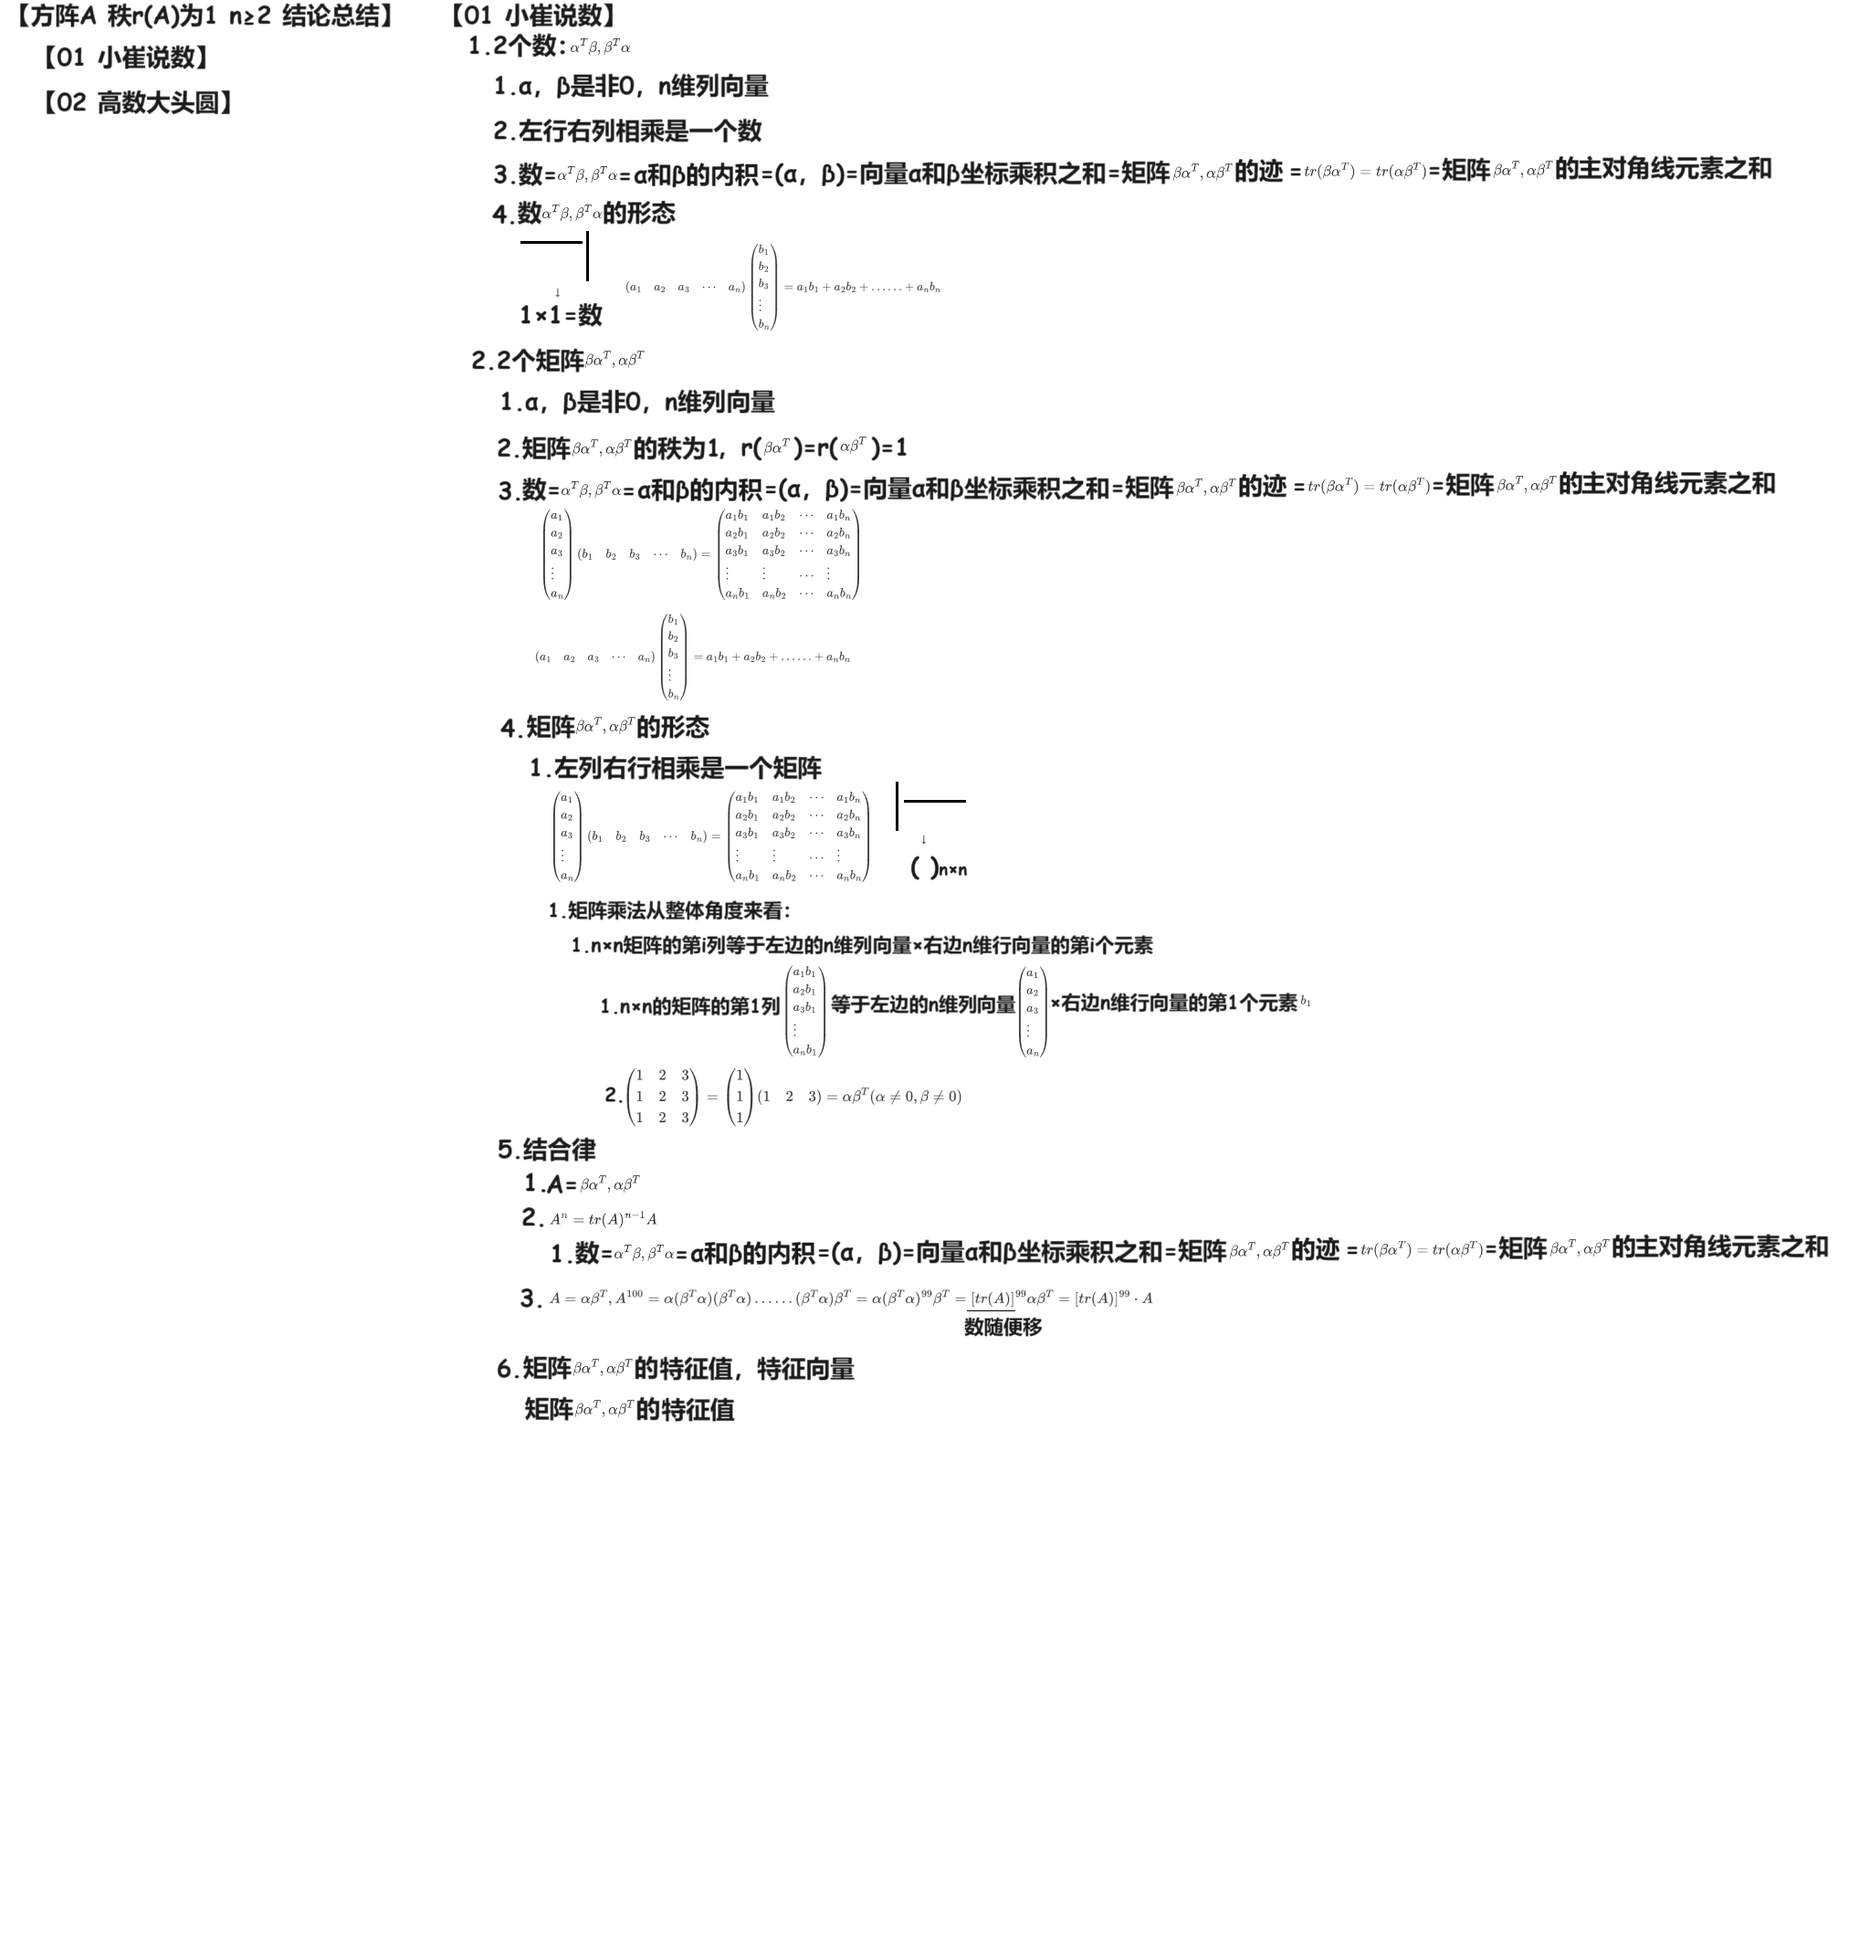
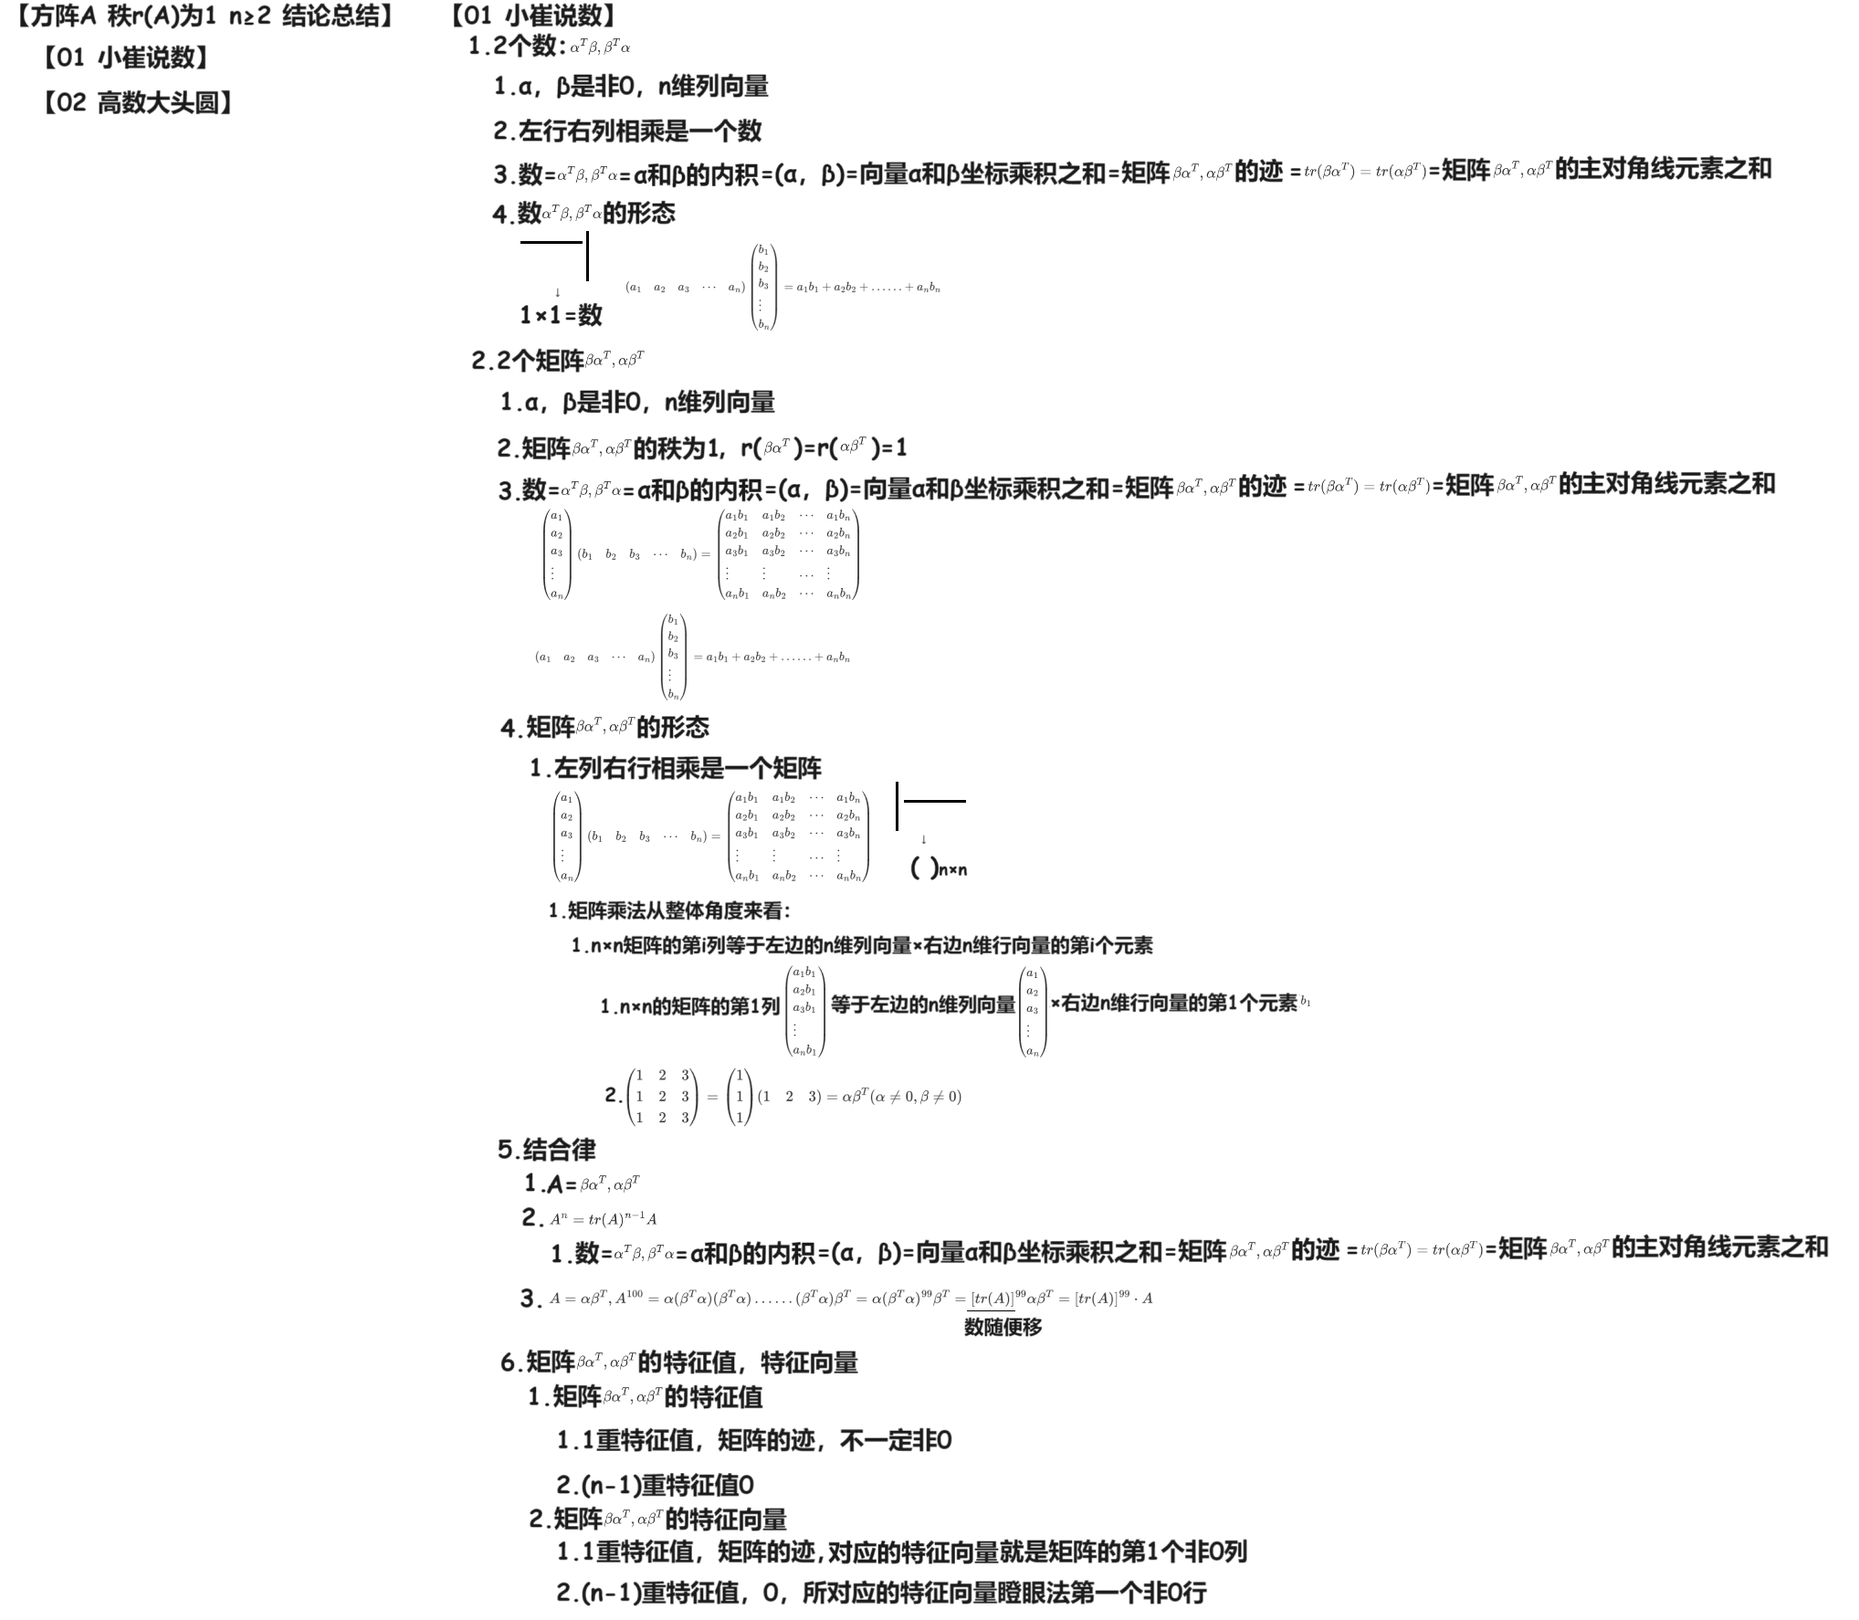
240311

diff --git a/02 线代/02 知识点/09 矩阵乘法 空间变换 240311/02 Doc.md b/02 线代/02 知识点/09 矩阵乘法 空间变换 240311/02 Doc.md
@@ -1,3 +1,3 @@
 # 矩阵乘法 空间变换
 
-<img src="https://cvp.oss-cn-shanghai.aliyuncs.com/picgo/202403111611361.png" alt="image-20240311161113072" style="zoom:50%;" />
+<img src="https://cvp.oss-cn-shanghai.aliyuncs.com/picgo/202403112219429.png" alt="image-20240311221938180" style="zoom:50%;" />

diff --git a/02 线代/02 知识点/15 秩为1的矩阵 【B站 小崔说数】 【B站 高数大头圆】240311/00 方阵A 秩r(A)为1 n≥2 结论总结 240311/02 Doc.md b/02 线代/02 知识点/15 秩为1的矩阵 【B站 小崔说数】 【B站 高数大头圆】240311/00 方阵A 秩r(A)为1 n≥2 结论总结 240311/02 Doc.md
@@ -1,0 +1,3 @@
+# 方阵A 秩r(A)为1 n≥2 结论总结
+
+<img src="https://cvp.oss-cn-shanghai.aliyuncs.com/picgo/202403112217392.png" alt="image-20240311221733150" style="zoom: 50%;" />
